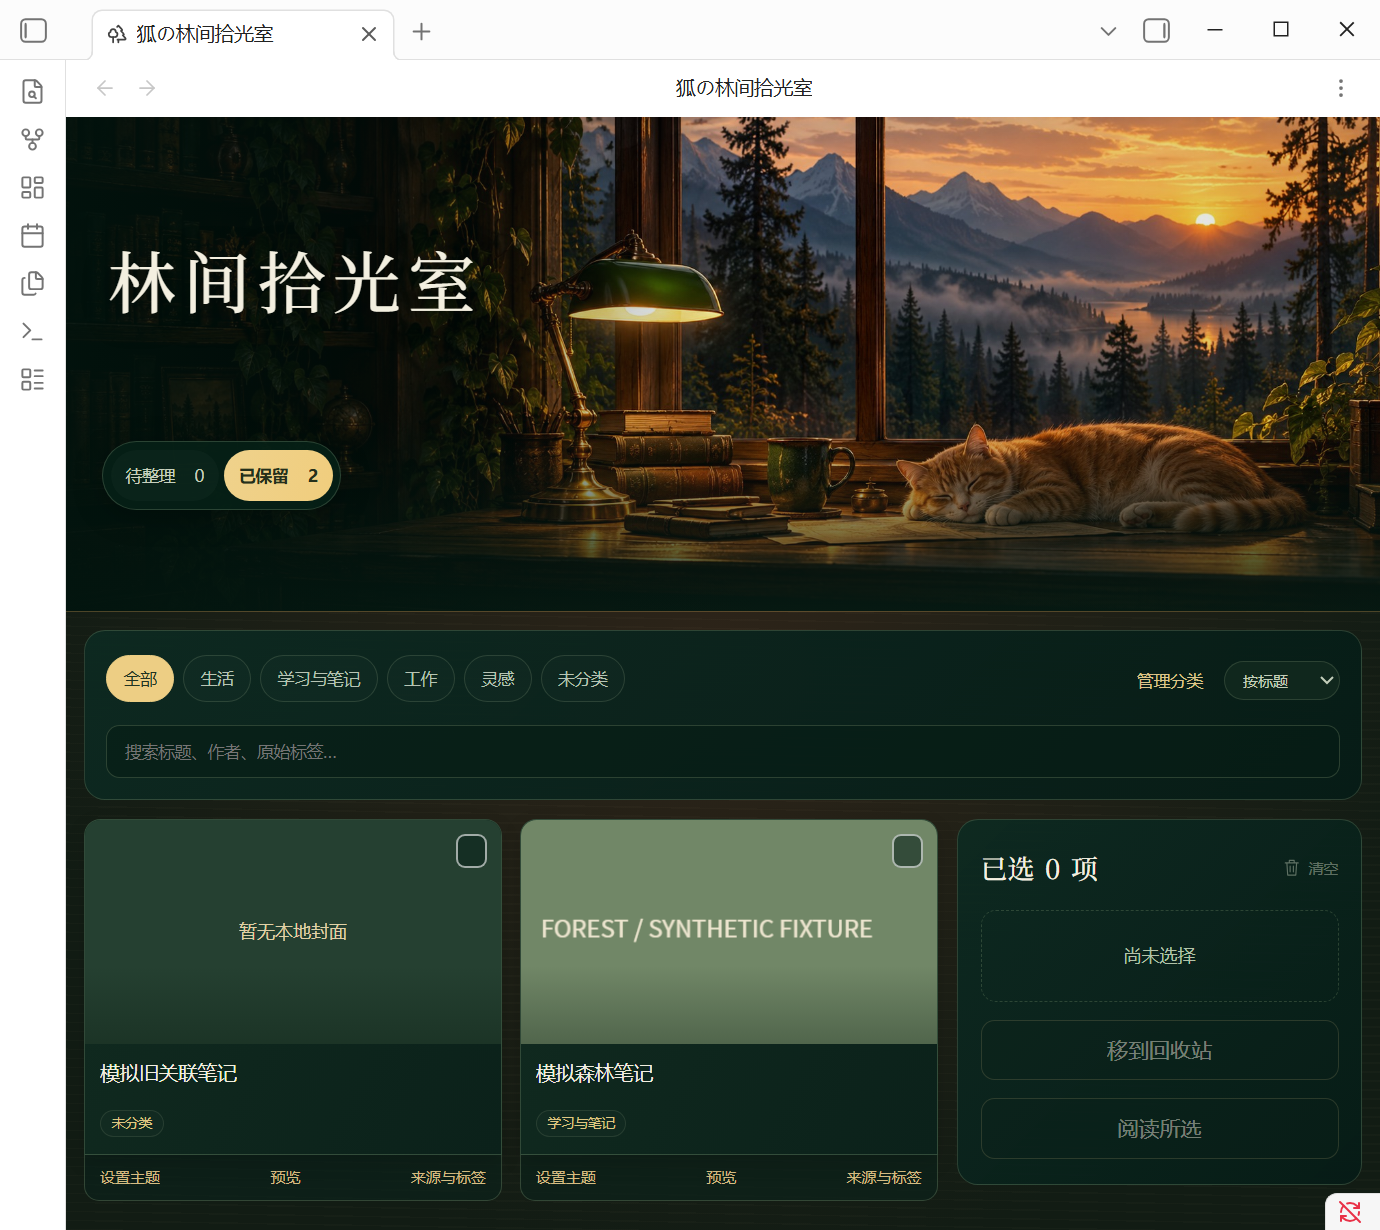
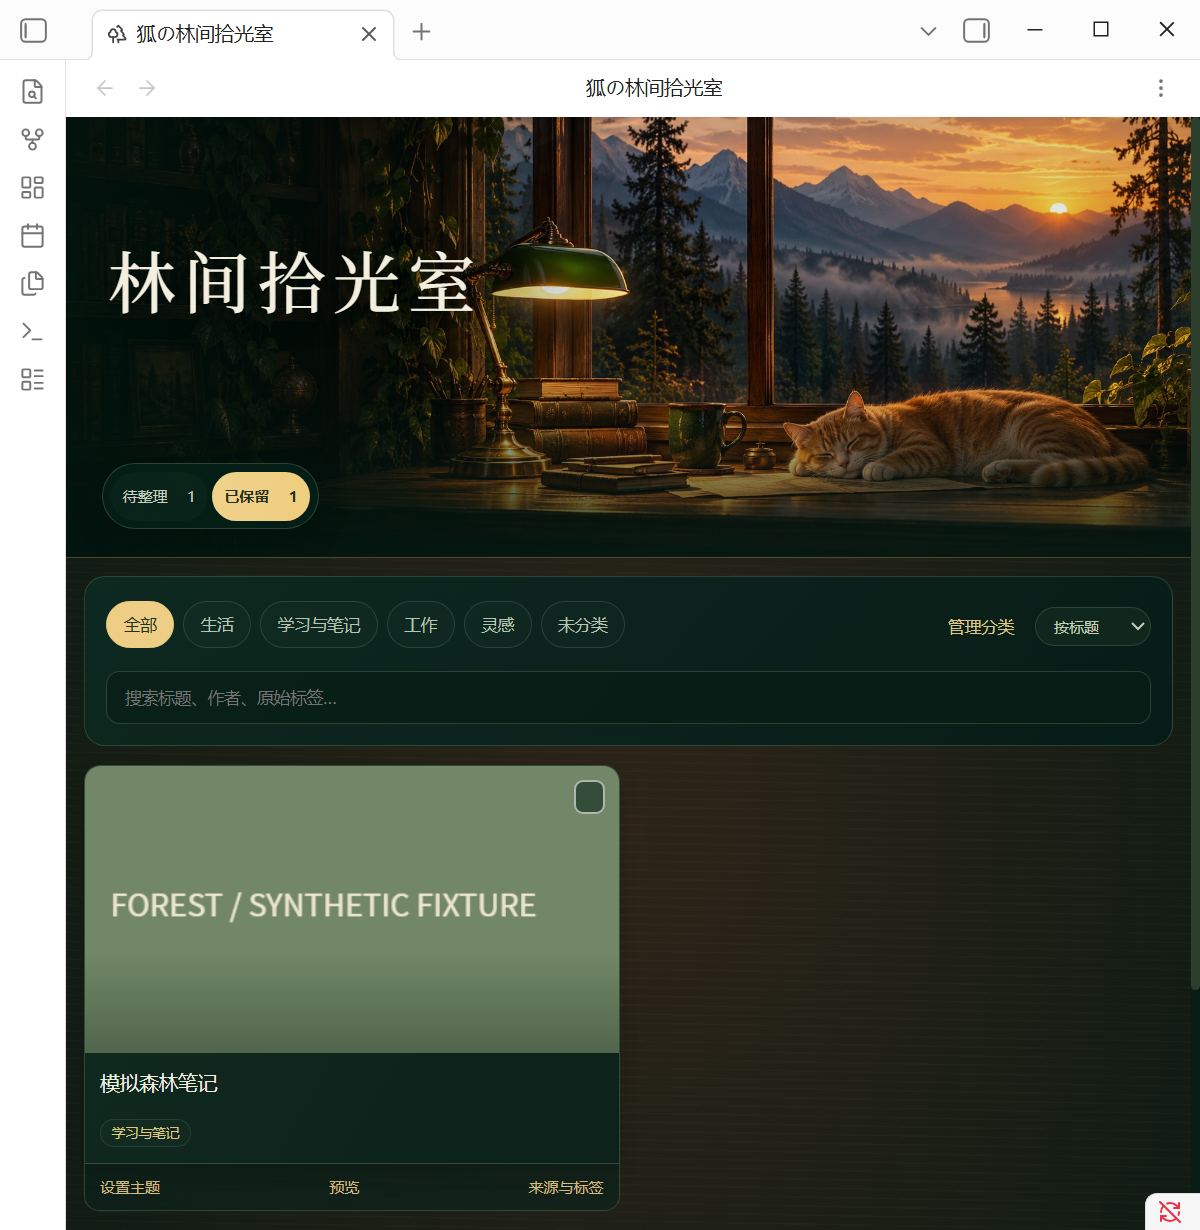
Record final narrow-window visual verification

diff --git a/docs/test-report-beta2.md b/docs/test-report-beta2.md
@@ -18,7 +18,7 @@
 
 ## 布局与范围
 
-[宽屏截图](images/forest-wide.png) · [较窄窗口截图](images/forest-narrow.png) · [阅读器截图](images/reader.png)。这些截图只含虚构测试文章和合成媒体。
+[宽屏截图](images/forest-wide.png) · [较窄窗口截图](images/forest-narrow.png) · [阅读器截图](images/reader.png)。这些截图只含虚构测试文章和合成媒体。较窄窗口以 800×820 CSS 视口验证，iframe 为 756×742，响应式断点实际生效。
 
 提取完整森林页面和阅读器，移除工作台侧栏、冗余说明、模拟推荐、抓取入口与未启用草稿控件。原角色图因再分发权待核实而排除；森林生成背景保留。公开截图仅使用虚构文章及合成媒体，不把真实封面替换成演示图片。
 
